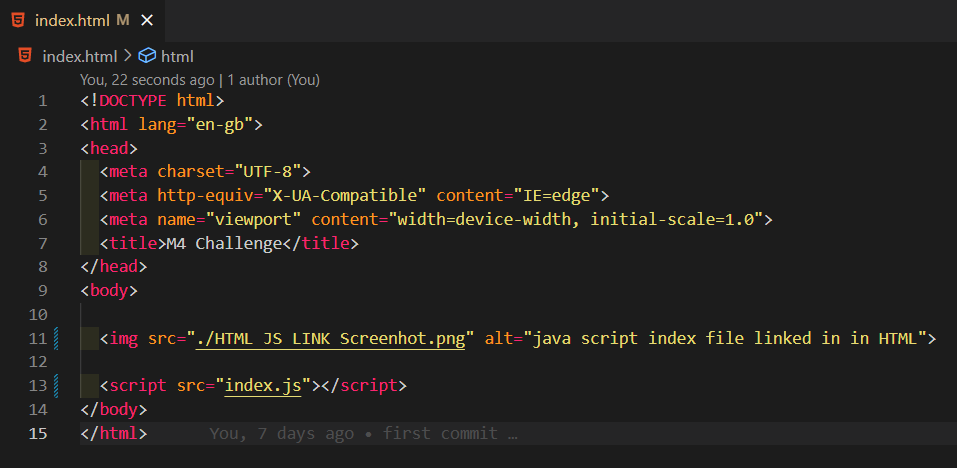
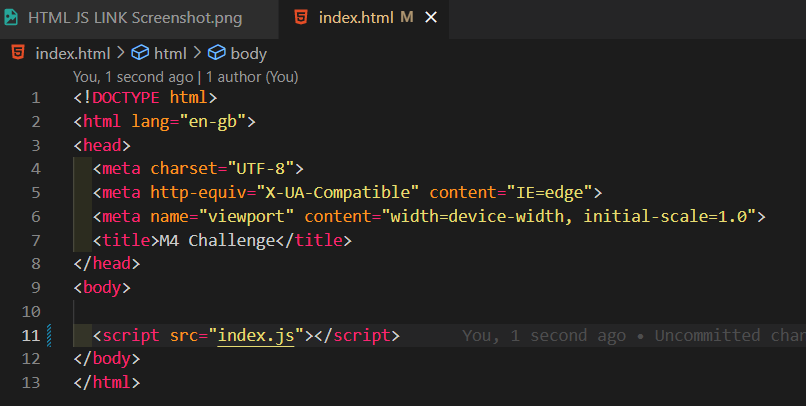
amended file name

diff --git a/index.html b/index.html
@@ -8,8 +8,6 @@
 </head>
 <body>
 
-  <img src="./HTML JS LINK Screenhot.png" alt="">
-
-  <script src="SectionTotalProfits.js"></script>
+  <script src="index.js"></script>
 </body>
 </html>
